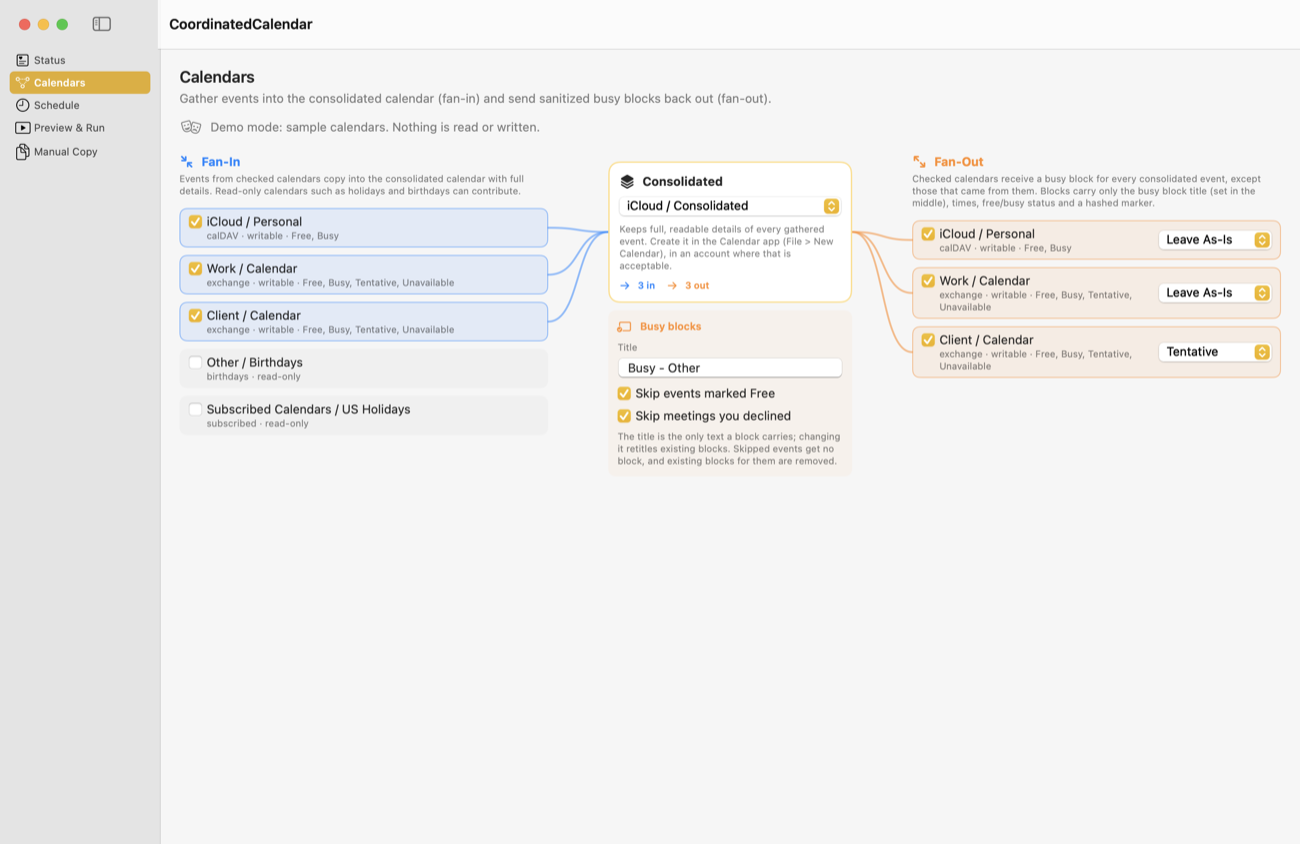
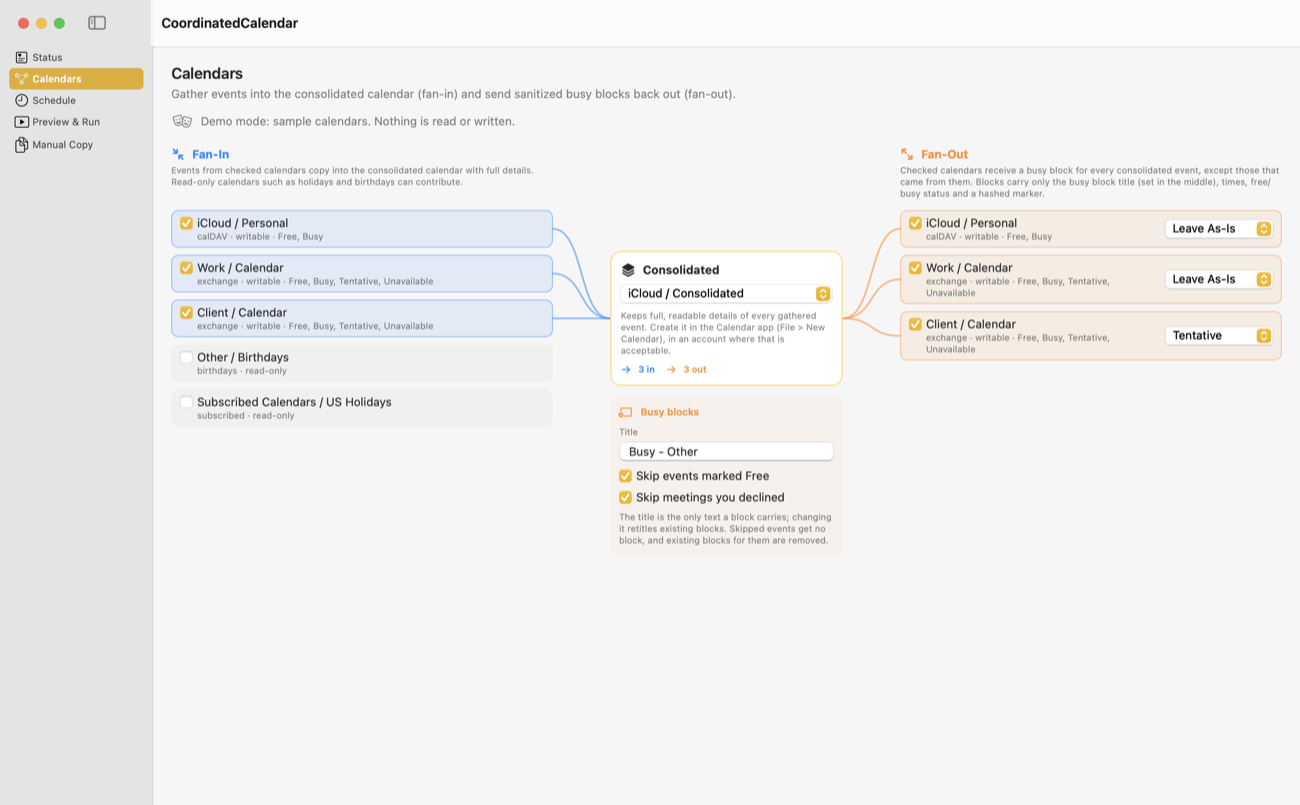
Center the consolidated card on the calendar lists
Both column headers take the taller height so both lists start on one
line, and the card is centered on the span from there to the bottom of the
longer list. The busy-block options hang below the card without affecting
that centering, with scroll room added only where they overhang.

diff --git a/Sources/CoordinatedCalendarApp/CalendarFlowView.swift b/Sources/CoordinatedCalendarApp/CalendarFlowView.swift
@@ -6,6 +6,11 @@ import SwiftUI
 /// and from it out to each checked recipient.
 struct CalendarFlowView: View {
     @ObservedObject var viewModel: BridgeViewModel
+    /// Height of the taller column header, so the consolidated card centers on the calendar rows alone.
+    @State private var headerHeight: CGFloat = 0
+    /// Bottom of the busy-block options and height of the columns, to add scroll room where they overhang.
+    @State private var optionsBottom: CGFloat = 0
+    @State private var columnsHeight: CGFloat = 0
 
     private static let fanInColor = Color.blue
     private static let fanOutColor = Color.orange
@@ -17,11 +22,22 @@ struct CalendarFlowView: View {
                     .frame(minWidth: 240, maxWidth: .infinity)
                 hubColumn
                     .frame(width: 260)
+                    // Rows start below the column headers (plus the column's 8-point spacing).
+                    .padding(.top, headerHeight + 8)
                     .frame(maxHeight: .infinity)
                 recipientsColumn
                     .frame(minWidth: 300, maxWidth: .infinity)
             }
+            .coordinateSpace(name: "flow")
+            .background(GeometryReader { proxy in
+                Color.clear.preference(key: ColumnsHeightKey.self, value: proxy.size.height)
+            })
+            // Scroll room for the busy-block options where they hang below the columns' end.
+            .padding(.bottom, max(0, optionsBottom - columnsHeight))
             .padding(.vertical, 6)
+            .onPreferenceChange(HeaderHeightKey.self) { headerHeight = $0 }
+            .onPreferenceChange(OptionsOverhangKey.self) { optionsBottom = $0 }
+            .onPreferenceChange(ColumnsHeightKey.self) { columnsHeight = $0 }
             .backgroundPreferenceValue(FlowAnchorKey.self) { anchors in
                 GeometryReader { proxy in
                     flowLines(anchors: anchors, proxy: proxy)
@@ -87,8 +103,15 @@ struct CalendarFlowView: View {
             .background(.background, in: RoundedRectangle(cornerRadius: 12))
             .overlay(RoundedRectangle(cornerRadius: 12).strokeBorder(Color.accentColor.opacity(0.6), lineWidth: 1.5))
             .anchorPreference(key: FlowAnchorKey.self, value: .bounds) { ["hub": $0] }
-            // Fan-out options live under the hub so the recipient list lines up with the contributors.
-            busyBlockOptions
+            // The fan-out options hang 12 points below the card without affecting layout, so the card alone
+            // is centered between the tops and bottoms of the calendar lists.
+            .overlay(alignment: .bottom) {
+                busyBlockOptions
+                    .alignmentGuide(.bottom) { dimensions in dimensions[.top] - 12 }
+                    .background(GeometryReader { proxy in
+                        Color.clear.preference(key: OptionsOverhangKey.self, value: proxy.frame(in: .named("flow")).maxY)
+                    })
+            }
             Spacer(minLength: 0)
         }
     }
@@ -157,6 +180,11 @@ struct CalendarFlowView: View {
                 .fixedSize(horizontal: false, vertical: true)
         }
         .padding(.bottom, 4)
+        .background(GeometryReader { proxy in
+            Color.clear.preference(key: HeaderHeightKey.self, value: proxy.size.height)
+        })
+        // Both headers take the taller height, so both calendar lists start on the same line.
+        .frame(minHeight: headerHeight, alignment: .top)
     }
 
     private func calendarRow(
@@ -249,5 +277,32 @@ private struct FlowAnchorKey: PreferenceKey {
 
     static func reduce(value: inout [String: Anchor<CGRect>], nextValue: () -> [String: Anchor<CGRect>]) {
         value.merge(nextValue()) { $1 }
+    }
+}
+
+/// The tallest column header's height.
+private struct HeaderHeightKey: PreferenceKey {
+    static let defaultValue: CGFloat = 0
+
+    static func reduce(value: inout CGFloat, nextValue: () -> CGFloat) {
+        value = max(value, nextValue())
+    }
+}
+
+/// Bottom edge of the busy-block options in the "flow" coordinate space.
+private struct OptionsOverhangKey: PreferenceKey {
+    static let defaultValue: CGFloat = 0
+
+    static func reduce(value: inout CGFloat, nextValue: () -> CGFloat) {
+        value = max(value, nextValue())
+    }
+}
+
+/// Height of the three columns, before any overhang room.
+private struct ColumnsHeightKey: PreferenceKey {
+    static let defaultValue: CGFloat = 0
+
+    static func reduce(value: inout CGFloat, nextValue: () -> CGFloat) {
+        value = max(value, nextValue())
     }
 }
